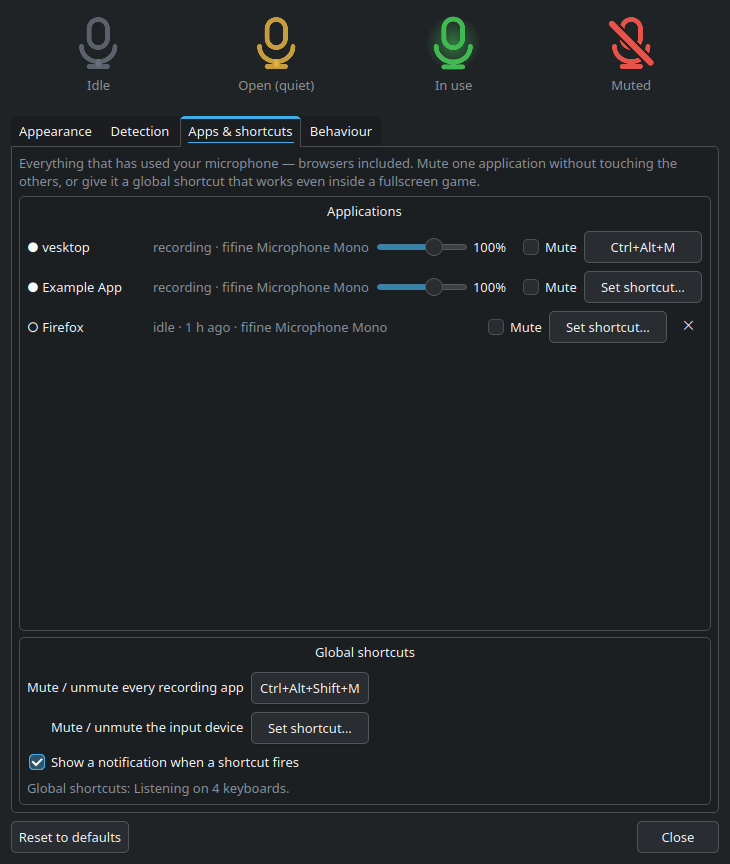
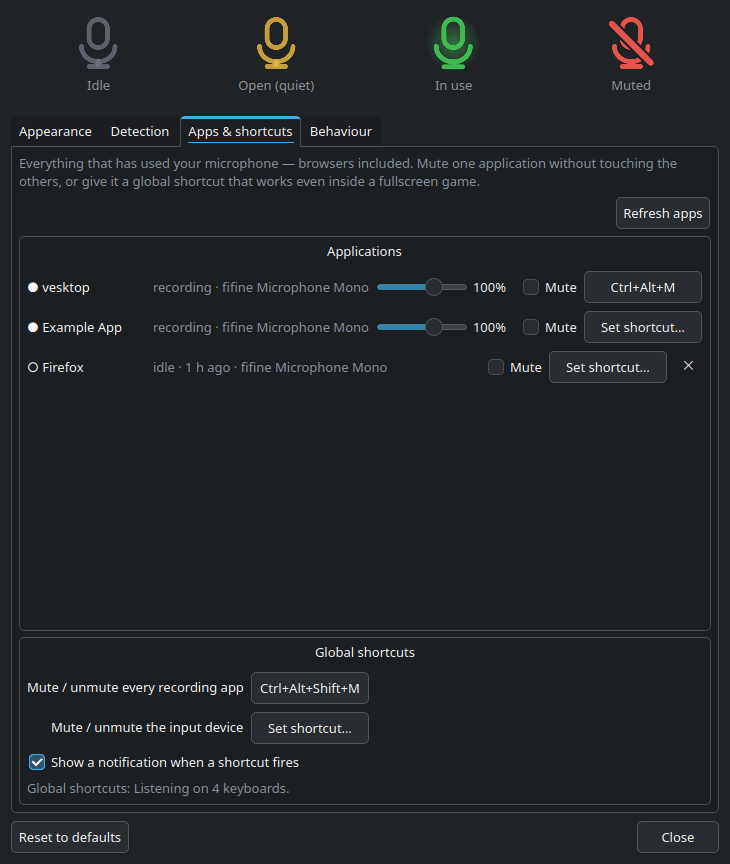
Self-contained AppImage, portable install fallback, and a Refresh apps button
The AppImage was a thin launcher that borrowed the system PySide6, so it did
not run on the distros that need it most: Ubuntu 24.04 packages no PySide6 at
all. It now carries its own Python, Qt/PySide6 and evdev — 57 MB after
dropping QML, Qt translations and the tooling a tray indicator never touches —
and was verified running on a bare Ubuntu container with no python3 installed.

install-online.sh drops the virtualenv path in favour of unpacking that same
AppImage into ~/.local: one artifact, no pip, no compiler, no FUSE. Native
packages still win wherever the distro ships PySide6.

The Apps & shortcuts tab gains a Refresh apps button that re-scans PipeWire on
demand instead of waiting for the next tick.

Claude-Session: https://claude.ai/code/session_01Sir2m39WrWtFYq9DF8RHpz

diff --git a/micwatch/settings.py b/micwatch/settings.py
@@ -683,6 +683,16 @@ class SettingsWindow(QWidget):
         intro.setStyleSheet("color: #8b949e;")
         layout.addWidget(intro)
 
+        head = QHBoxLayout()
+        head.addStretch(1)
+        self.refresh_button = QPushButton("Refresh apps")
+        self.refresh_button.setToolTip(
+            "Re-scan the recording applications and input devices right now"
+        )
+        self.refresh_button.clicked.connect(self._refresh_now)
+        head.addWidget(self.refresh_button)
+        layout.addLayout(head)
+
         self.streams_box = QGroupBox("Applications")
         self.streams_layout = QVBoxLayout(self.streams_box)
         self.who = QLabel("Nothing has used the microphone yet.")
@@ -732,6 +742,13 @@ class SettingsWindow(QWidget):
         ok, message = self.tray.hotkey_status
         self.show_hotkey_status(ok, message)
         return page
+
+    def _refresh_now(self) -> None:
+        """Ask PipeWire again instead of waiting for the next tick."""
+        self.tray.monitor.refresh()
+        self.refresh_streams()
+        self.refresh_button.setText("Refreshed")
+        QTimer.singleShot(1200, lambda: self.refresh_button.setText("Refresh apps"))
 
     def _set_global_shortcut(self, key: str, value: str) -> None:
         self.config[key] = value

diff --git a/README.md b/README.md
@@ -47,15 +47,22 @@ git clone https://github.com/gabrielmf1998/MicWatch-KDE.git
 cd MicWatch-KDE && ./install.sh && micwatch
 ```
 
-The AppImage is a thin launcher: it carries MicWatch itself and uses the system
-`python3` + PySide6, so it stays under a megabyte instead of bundling all of Qt.
+The AppImage is **self-contained** — Python, Qt/PySide6 and evdev travel inside it — so it
+runs on any distro, including the ones that do not package PySide6 at all (Ubuntu 24.04).
+Double-clicking it needs `libfuse2`; without it, run
+`./MicWatch-KDE-x86_64.AppImage --appimage-extract-and-run`, or use the installer above,
+which unpacks it into `~/.local` and needs no FUSE.
 
 ### Requirements
 
 - PipeWire with `pw-cat` and `pactl` (`pipewire-utils`, `pulseaudio-utils`)
 - Python 3.11+ and PySide6 (`sudo dnf install python3-pyside6`)
+- optional, only for the global shortcuts: `python3-evdev` and your user in the `input` group
 
-The native packages pull these in for you.
+The native packages pull all of that in. On a distro with no PySide6 package, the
+one-liner installs the self-contained build instead, which carries its own Python and Qt —
+so **every KDE distro is covered**: `.rpm` (Fedora, RHEL), `.deb` (Debian, Ubuntu, Mint),
+`.pkg.tar.zst` (Arch, Manjaro, CachyOS) and the `.AppImage` for everything else.
 
 ## Screenshots
 
